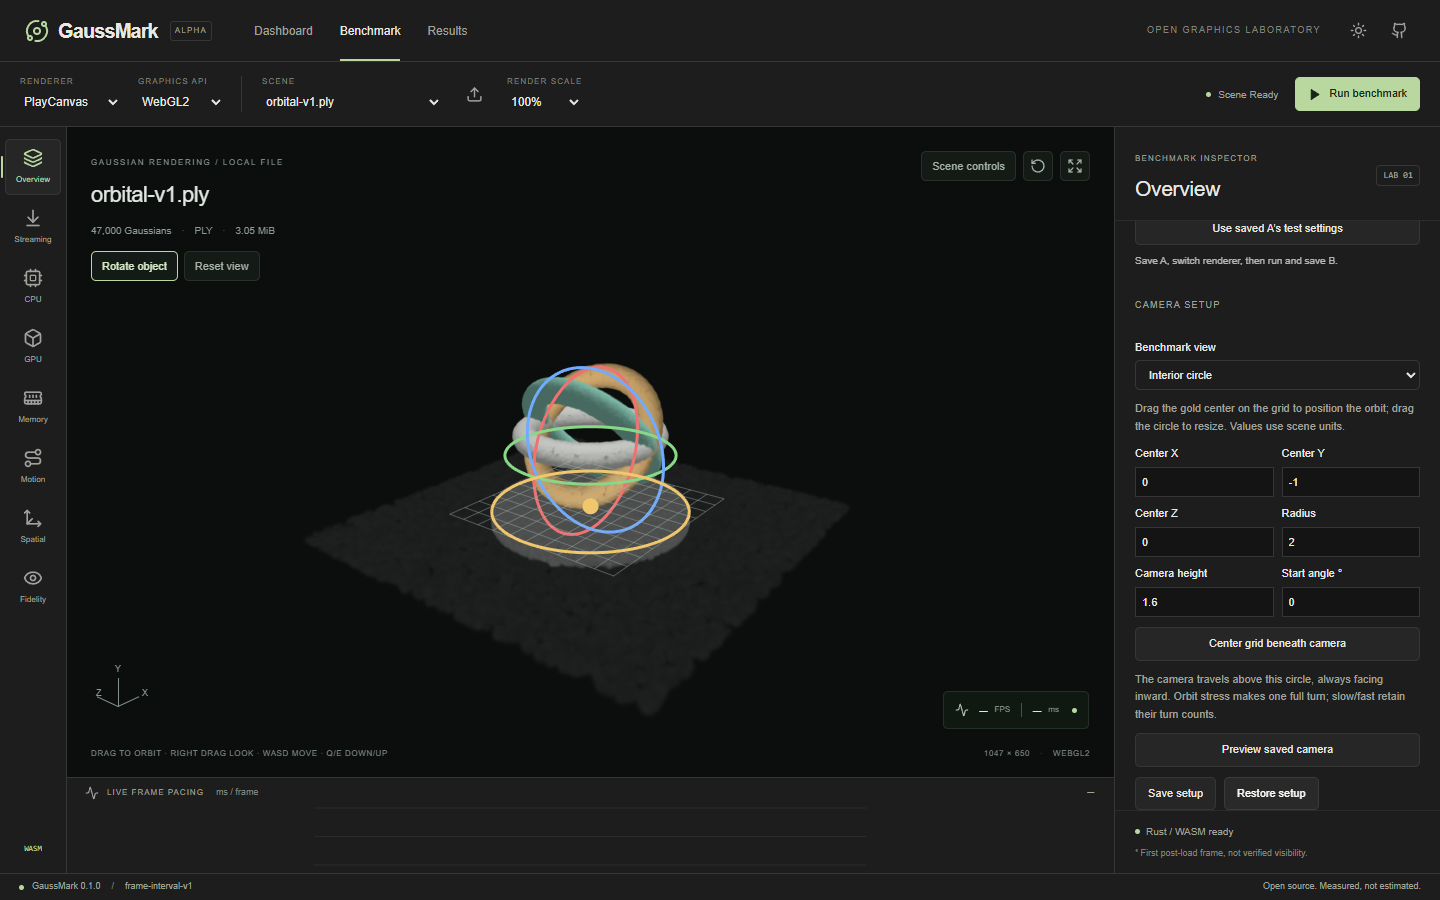
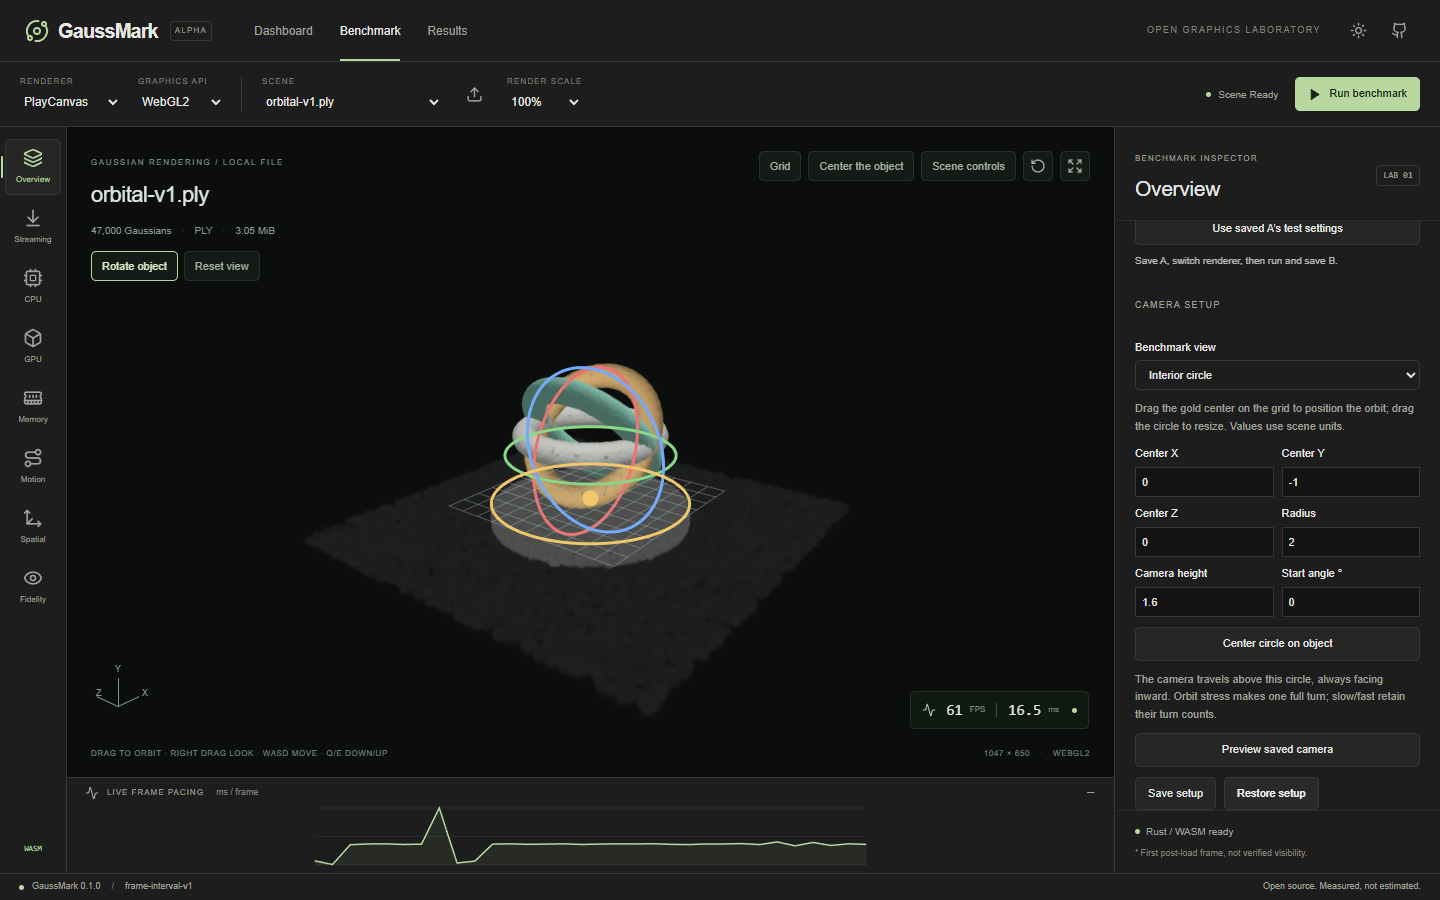
better camera controls, grid view

diff --git a/src/components/workspace.tsx b/src/components/workspace.tsx
@@ -105,6 +105,7 @@ export function Workspace() {
     mounted = useRef(true),
     [generation, setGeneration] = useState(0);
   const [renderer, setRenderer] = useState("PlayCanvas");
+  const [gridVisible, setGridVisible] = useState(true);
   const [gizmoVisible, setGizmoVisible] = useState(true);
   const [cameraPath, setCameraPath] = useState<CameraPath>();
   const [rotation, setRotation] = useState<Rotation>([0, 0, 0]);
@@ -114,13 +115,19 @@ export function Workspace() {
     height: number;
   } | null>(null);
   const [comparisonMessage, setComparisonMessage] = useState("");
-  const controlsRef = useRef({ gizmoVisible, rotation, cameraPath });
-  controlsRef.current = { gizmoVisible, rotation, cameraPath };
+  const controlsRef = useRef({
+    gizmoVisible,
+    gridVisible,
+    rotation,
+    cameraPath,
+  });
+  controlsRef.current = { gizmoVisible, gridVisible, rotation, cameraPath };
   useEffect(() => {
+    adapter.current?.setGridVisible(gridVisible);
     adapter.current?.setGizmoVisible(gizmoVisible);
     adapter.current?.setObjectRotation(rotation);
     adapter.current?.setCameraPath(cameraPath);
-  }, [gizmoVisible, rotation, cameraPath]);
+  }, [gizmoVisible, gridVisible, rotation, cameraPath]);
   function useBaseline() {
     const baseline = readComparison().A;
     if (!baseline) {
@@ -222,6 +229,7 @@ export function Workspace() {
       setTelemetry({ ...idle, phase: "loading" });
       const loaded = await current.load(scene, controller.signal);
       if (controller.signal.aborted) return;
+      current.setGridVisible(controlsRef.current.gridVisible);
       current.setGizmoVisible(controlsRef.current.gizmoVisible);
       current.setObjectRotation(controlsRef.current.rotation);
       current.setCameraPath(controlsRef.current.cameraPath);
@@ -328,6 +336,7 @@ export function Workspace() {
           repeats,
           ...dimensions,
           renderScale: scale,
+          cameraCoordinates: "object-centered",
           objectRotation: rotation,
           ...(cameraPath ? { cameraPath } : {}),
         },
@@ -553,6 +562,21 @@ export function Workspace() {
                 </span>
               </div>
               <div className="viewport-actions">
+                <button
+                  className="glass-button controls-toggle"
+                  disabled={busy}
+                  aria-pressed={gridVisible}
+                  onClick={() => setGridVisible((v) => !v)}
+                >
+                  Grid
+                </button>
+                <button
+                  className="glass-button controls-toggle"
+                  disabled={busy}
+                  onClick={() => adapter.current?.centerObject()}
+                >
+                  Center the object
+                </button>
                 <button
                   className="glass-button controls-toggle"
                   aria-expanded={controlsOpen}

diff --git a/src/components/camera-path-editor.tsx b/src/components/camera-path-editor.tsx
@@ -21,13 +21,13 @@ export function CameraPathEditor({
   const [message, setMessage] = useState("");
   const centerHere = () => {
     if (!adapter) return;
-    const pose = adapter.captureCamera();
+    const center = adapter.objectPivot();
     onChange({
       mode: "orbit",
-      center: [pose.eye[0], pose.eye[1] - 1.6, pose.eye[2]],
-      radius: 1,
-      height: 1.6,
-      startAngle: 0,
+      center,
+      radius: path?.mode === "orbit" ? path.radius : 1,
+      height: path?.mode === "orbit" ? path.height : 1.6,
+      startAngle: path?.mode === "orbit" ? path.startAngle : 0,
     });
   };
   const update = (key: "radius" | "height" | "startAngle", value: number) => {
@@ -127,7 +127,7 @@ export function CameraPathEditor({
             </label>
           </div>
           <button className="button" disabled={disabled} onClick={centerHere}>
-            Center grid beneath camera
+            Center circle on object
           </button>
           <p>
             The camera travels above this circle, always facing inward. Orbit
@@ -166,7 +166,7 @@ export function CameraPathEditor({
           onClick={() => {
             try {
               localStorage.setItem(
-                `gaussmark.camera.${sceneKey}`,
+                `gaussmark.camera.centered.${sceneKey}`,
                 JSON.stringify({ path, rotation }),
               );
               setMessage(
@@ -185,7 +185,7 @@ export function CameraPathEditor({
           onClick={() => {
             try {
               const saved = JSON.parse(
-                localStorage.getItem(`gaussmark.camera.${sceneKey}`) || "null",
+                localStorage.getItem(`gaussmark.camera.centered.${sceneKey}`) || "null",
               );
               if (!saved) throw Error("No saved setup for this file.");
               if (

diff --git a/src/renderers/rotation-gizmo.ts b/src/renderers/rotation-gizmo.ts
@@ -227,10 +227,14 @@ export class RotationGizmo {
   }
   private drawGuide() {
     const path = this.controls.cameraPath;
-    this.guide.style.display = path?.mode === "orbit" ? "block" : "none";
-    if (path?.mode !== "orbit") return;
-    const [x, y, z] = path.center,
-      r = path.radius;
+    this.guide.style.display =
+      this.controls.gridVisible || path?.mode === "orbit" ? "block" : "none";
+    const orbit = path?.mode === "orbit";
+    this.grid.style.display = this.controls.gridVisible ? "block" : "none";
+    this.circle.style.display = orbit ? "block" : "none";
+    const g = this.controls.gridOrigin;
+    const [x, y, z] = orbit ? path.center : [g.x, g.y, g.z],
+      r = orbit ? path.radius : this.controls.baseRadius / 2;
     const line = (a: Vec3, b: Vec3) => {
       const p = this.project(a),
         q = this.project(b);
@@ -254,7 +258,7 @@ export class RotationGizmo {
     this.grid.setAttribute("d", grid);
     this.circle.setAttribute("d", circle);
     const p = this.project(new Vec3(x, y, z));
-    this.pivot.style.display = p ? "block" : "none";
+    this.pivot.style.display = p && orbit ? "block" : "none";
     if (p) {
       this.pivot.setAttribute("cx", String(p[0]));
       this.pivot.setAttribute("cy", String(p[1]));
@@ -263,7 +267,9 @@ export class RotationGizmo {
   update() {
     const visible =
       this.controls.interactive &&
-      (this.enabled || this.controls.cameraPath?.mode === "orbit");
+      (this.enabled ||
+        this.controls.gridVisible ||
+        this.controls.cameraPath?.mode === "orbit");
     this.svg.style.display = visible ? "block" : "none";
     if (!visible) {
       this.active = null;

diff --git a/src/renderers/controls.ts b/src/renderers/controls.ts
@@ -6,6 +6,19 @@ export type NavigationMode = "orbit" | "fly";
 export type Rotation = [number, number, number];
 /** Shared camera/scene transform, so both renderers use the identical route. */
 export class SceneControls {
+  gridVisible = true;
+  gridOrigin = new Vec3();
+  private sourceOrigin = new Vec3();
+  normalizeOrigin() {
+    this.sourceOrigin.copy(this.origin);
+    this.origin.set(0, 0, 0);
+    this.gridOrigin.set(0, 0, 0);
+    this.reset();
+  }
+  centerObject() {
+    this.gridOrigin.copy(this.origin);
+    this.reset();
+  }
   origin = new Vec3(0, 0.1, 0);
   center = this.origin.clone();
   position = new Vec3();
@@ -207,10 +220,12 @@ export class SceneControls {
     const q = new Quat().setFromEulerAngles(...this.rotation).invert();
     const eye = q
       .transformVector(this.position.clone().sub(this.origin))
-      .add(this.origin);
+      .add(this.origin)
+      .add(this.sourceOrigin);
     const aim = q
       .transformVector(target.clone().sub(this.origin))
-      .add(this.origin);
+      .add(this.origin)
+      .add(this.sourceOrigin);
     this.viewTarget.copy(target);
     const direction = target.clone().sub(this.position).normalize();
     this.viewUp.copy(

diff --git a/tests/e2e/interior.spec.ts b/tests/e2e/interior.spec.ts
@@ -16,7 +16,18 @@ test("local filenames, interior path, preset restore, frozen camera and A/B sett
     page.getByRole("heading", { name: "orbital-v1.ply", exact: true }),
   ).toBeVisible();
   await expect(run).toBeEnabled();
+  const grid = page.getByRole("button", { name: "Grid", exact: true });
+  await expect(grid).toHaveAttribute("aria-pressed", "true");
+  await grid.click();
+  await expect(grid).toHaveAttribute("aria-pressed", "false");
+  await grid.click();
+  await page.getByRole("button", { name: "Center the object", exact: true }).click();
   await page.getByLabel("Benchmark view").selectOption("orbit");
+  await page.getByLabel("Orbit radius", { exact: true }).fill("2");
+  await page.getByLabel("Orbit center X").fill("15");
+  await page.getByRole("button", { name: "Center circle on object" }).click();
+  await expect(page.getByLabel("Orbit center X")).toHaveValue("0");
+  await expect(page.getByLabel("Orbit radius", { exact: true })).toHaveValue("2");
   await page.getByLabel("Orbit center X").fill("0");
   await page.getByLabel("Orbit center Y").fill("-1");
   await page.getByLabel("Orbit center Z").fill("0");

diff --git a/src/renderers/playcanvas.ts b/src/renderers/playcanvas.ts
@@ -148,7 +148,7 @@ export class PlayCanvasAdapter implements RendererAdapter {
           resource.aabb.halfExtents.length() * 2.2,
         );
       }
-      this.resetCamera();
+      this.controls!.normalizeOrigin();
       const prepared = performance.now();
       await new Promise<void>((resolve, reject) => {
         const done = () => {
@@ -220,6 +220,19 @@ export class PlayCanvasAdapter implements RendererAdapter {
       this.controls.rotation = rotation;
       this.controls.update();
     }
+  }
+  setGridVisible(visible: boolean) {
+    if (this.controls) {
+      this.controls.gridVisible = visible;
+      this.controls.gizmo.update();
+    }
+  }
+  centerObject() {
+    this.controls?.centerObject();
+  }
+  objectPivot(): [number, number, number] {
+    const p = this.controls?.origin;
+    return p ? [p.x, p.y, p.z] : [0, 0, 0];
   }
   setGizmoVisible(visible: boolean) {
     if (this.controls) {

diff --git a/src/renderers/websplatter.ts b/src/renderers/websplatter.ts
@@ -295,7 +295,7 @@ export class WebSplatterAdapter implements RendererAdapter {
         ) * 2.2,
       );
     }
-    this.controls!.reset();
+    this.controls!.normalizeOrigin();
     const prepared = performance.now();
     signal.throwIfAborted();
     if (this.destroyed) throw Error("Renderer cancelled.");
@@ -384,6 +384,19 @@ export class WebSplatterAdapter implements RendererAdapter {
       this.controls.rotation = rotation;
       this.controls.update();
     }
+  }
+  setGridVisible(visible: boolean) {
+    if (this.controls) {
+      this.controls.gridVisible = visible;
+      this.controls.gizmo.update();
+    }
+  }
+  centerObject() {
+    this.controls?.centerObject();
+  }
+  objectPivot(): [number, number, number] {
+    const p = this.controls?.origin;
+    return p ? [p.x, p.y, p.z] : [0, 0, 0];
   }
   setGizmoVisible(visible: boolean) {
     if (this.controls) {

diff --git a/tests/unit/controls.test.ts b/tests/unit/controls.test.ts
@@ -119,3 +119,26 @@ describe("interior paths", () => {
     c.dispose();
   });
 });
+
+describe("object centering", () => {
+  it("rebases an offset scene while preserving its rendered camera position", () => {
+    const { c, last } = setup("PlayCanvas");
+    c.origin.set(100, 20, -50);
+    c.reset();
+    const before = last().eye.clone();
+    c.normalizeOrigin();
+    expect(c.origin.equals(Vec3.ZERO)).toBe(true);
+    expect(last().eye.distance(before)).toBeLessThan(0.00001);
+    c.centerObject();
+    expect(c.gridOrigin.equals(Vec3.ZERO)).toBe(true);
+    c.setCameraPath({
+      mode: "orbit",
+      center: [0, 0, 0],
+      radius: 2,
+      height: 1,
+      startAngle: 0,
+    });
+    c.benchmark(0, "orbit");
+    expect(last().eye.equals(new Vec3(100, 21, -48))).toBe(true);
+  });
+});

diff --git a/src/core/types.ts b/src/core/types.ts
@@ -64,6 +64,7 @@ export type RunConfig = {
   width: number;
   height: number;
   renderScale: number;
+  cameraCoordinates?: "object-centered";
   cameraPath?: CameraPath;
   objectRotation?: [number, number, number];
 };
@@ -126,6 +127,9 @@ export interface RendererAdapter {
   setInteractive(enabled: boolean): void;
   setNavigation(mode: "orbit" | "fly", speed: number): void;
   setObjectRotation(rotation: [number, number, number]): void;
+  setGridVisible(visible: boolean): void;
+  centerObject(): void;
+  objectPivot(): [number, number, number];
   setGizmoVisible(visible: boolean): void;
   onRotationChange(
     callback: (rotation: [number, number, number]) => void,

diff --git a/src/core/comparison.ts b/src/core/comparison.ts
@@ -71,8 +71,9 @@ export function comparisonIssues(
   )
     issues.push("Different browser or device environment.");
   if (
+    a.config.cameraCoordinates !== b.config.cameraCoordinates ||
     JSON.stringify(a.config.cameraPath ?? null) !==
-    JSON.stringify(b.config.cameraPath ?? null)
+      JSON.stringify(b.config.cameraPath ?? null)
   )
     issues.push("Different camera paths or frozen poses.");
   if (a.id === b.id) issues.push("A and B are the same run.");

diff --git a/src/core/community.ts b/src/core/community.ts
@@ -58,6 +58,7 @@ export const submissionSchema = z
         width: z.number().int().min(64).max(8192),
         height: z.number().int().min(64).max(8192),
         renderScale: z.number().min(0.25).max(2),
+        cameraCoordinates: z.literal("object-centered").optional(),
         cameraPath: z
           .discriminatedUnion("mode", [
             z

diff --git a/README.md b/README.md
@@ -164,3 +164,8 @@ Local reports and exports now keep the uploaded filename. Previously anonymized 
 In Overview or Motion, choose **Camera setup → Interior circle**. The gold center defines the grid origin; drag it along the grid or edit X/Y/Z. Drag the gold circumference or edit Radius. Adjust Camera height above the grid and Start angle. Values are scene units, not necessarily metres. Existing XYZ rotation rings let you orient the scene relative to this horizontal grid. Use Preview saved camera to inspect the start from inside the room; select Orbit stress for one full inward-facing circle. Slow/fast use the same circle with 0.28/1.5 turns. The route keeps a constant radius and height and does not auto-frame the building.
 
 Choose **Freeze current view** to capture the exact position, target and up vector for a stationary measurement. **Save setup / Restore setup** retains the camera setup and object rotation in this browser, keyed by file hash. Re-load the file after page reload and restore its setup. Camera setups are included in results, exported JSON and saved A/B settings; different paths trigger a comparison mismatch. Every run restores the inspection camera afterward. Guides disappear during timing. The grid is a placement guide, not a collision detector; preview and inspect the route to ensure it remains inside walls.
+
+
+### Centering and grid
+
+Scenes use their bounding-box center as the working origin, without modifying the original file. **Center the object** in the viewport toolbar reframes that center; **Grid** toggles the reference grid independently of rotation handles. **Center circle on object** moves the orbit center to the object pivot and preserves radius, camera height, and start angle. Bounds are an estimate and can be affected by stray splats. Camera presets now use centered coordinates; save a new setup for scenes previously saved with source-file coordinates.
